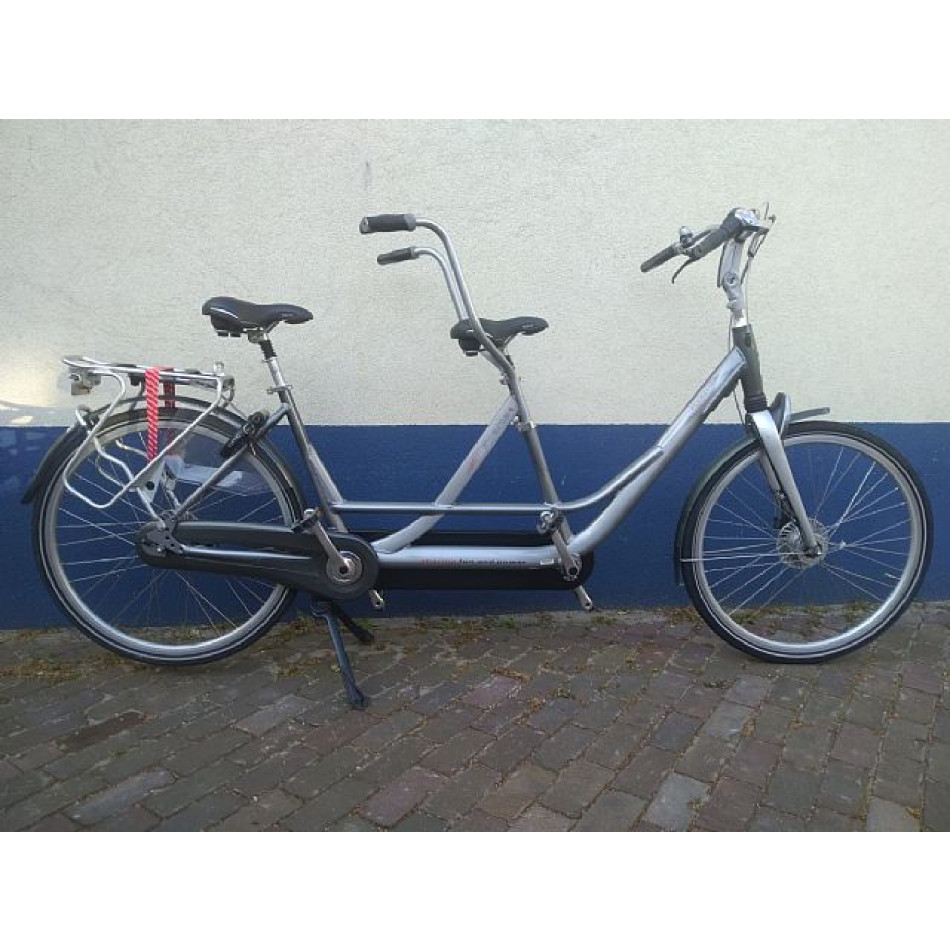
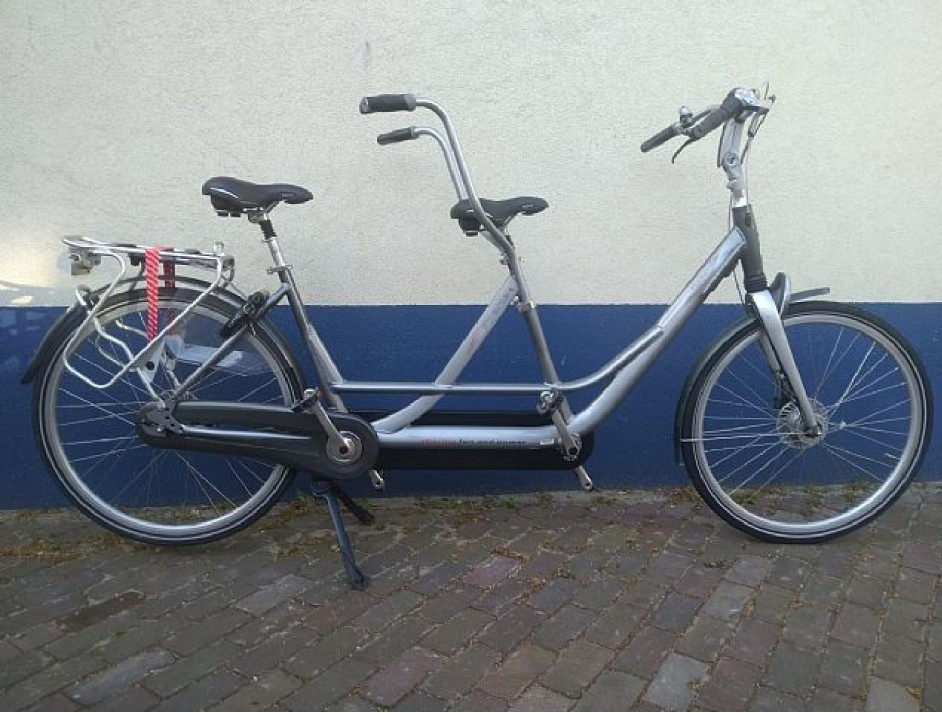
Sync commit

diff --git a/Assets/style.css b/Assets/style.css
@@ -194,11 +194,12 @@ body{margin: 0; padding: 0;}
 	margin: 5vh 0;
 }
 #soldOverlayWrapper {
-	max-width: 70%;
+	width: 70%;
 	float: left;
-	margin-left: 10%;
 	border: 1px solid #707070;
 	position: relative;
+	margin: 0 auto;
+	display: block;
 }
 #soldOverlay {
 	width: 100%;
@@ -213,7 +214,10 @@ body{margin: 0; padding: 0;}
 }
 .soldPrice {text-decoration: line-through;}
 #bikeMain img {
-	width: 100%;
+	max-width: 100%;
+	max-height: 100%;
+	margin: 0 auto;
+	display: block;
 }
 #bikeMainInfoWrapper {
 	background-color: #f2f2f2;
@@ -569,9 +573,10 @@ body{margin: 0; padding: 0;}
 		height: 60vh;
 	}
 	#soldOverlayWrapper {
-		max-height: 90%;
-		max-width: auto;
+		height: 80%;
+		max-width: 40%;
 		float: left;
+		margin: 0 auto;
 	}
 	#bikeMainInfoWrapper {
 		width: 50vw;

diff --git a/bike.php b/bike.php
@@ -7,11 +7,11 @@
 	require('Assets/header.php');
 
 	$getBikeInfo = "SELECT * FROM fietsen
-INNER JOIN staat
-ON fietsen.staatID = staat.staatID
-INNER JOIN categorieen
-ON fietsen.categorieID = categorieen.categorieID
-WHERE fietsID = {$_GET['id']}";
+					INNER JOIN staat
+					ON fietsen.staatID = staat.staatID
+					INNER JOIN categorieen
+					ON fietsen.categorieID = categorieen.categorieID
+					WHERE fietsID = {$_GET['id']}";
 	$bikeInfo = $conn->query($getBikeInfo);
 
 	while($row = $bikeInfo->fetch_assoc()) {
